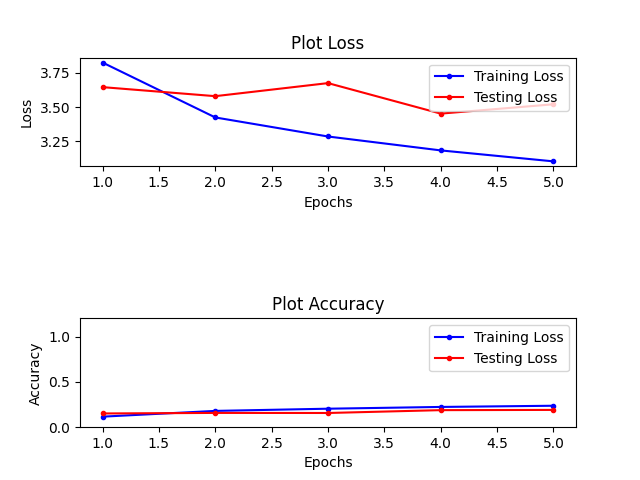
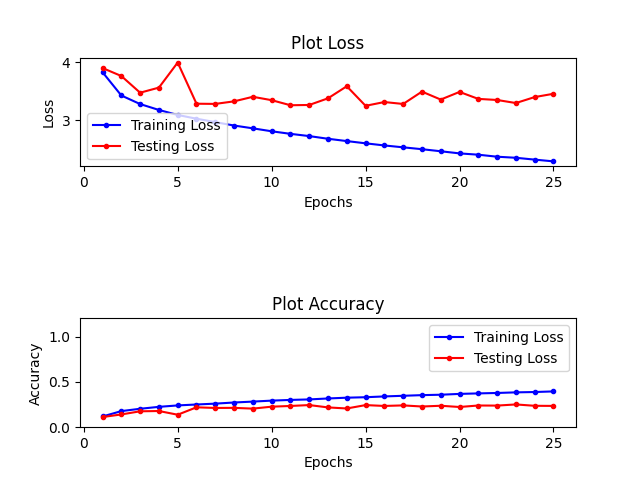
change dense dropout back to 0.25

diff --git a/Models/dense/architecture.py b/Models/dense/architecture.py
@@ -12,13 +12,13 @@ class Network():
         inputs = layers.Input(shape=(32,32,3)) 
         x = layers.Flatten()(inputs)
         x = layers.Dense(512, activation='relu')(x)
-        x = Dropout(0.25)(x)
+        #x = Dropout(0.25)(x)
         x = BatchNormalization()(x)
         x = layers.Dense(256, activation='relu')(x)
-        x = Dropout(0.25)(x)
+        #x = Dropout(0.25)(x)
         x = BatchNormalization()(x)
         x = layers.Dense(128, activation='relu')(x)
-        x = Dropout(0.25)(x)
+        #x = Dropout(0.25)(x)
         x = BatchNormalization()(x)
         x = layers.Flatten()(x)
         outputs = layers.Dense(100, activation="softmax")(x)
